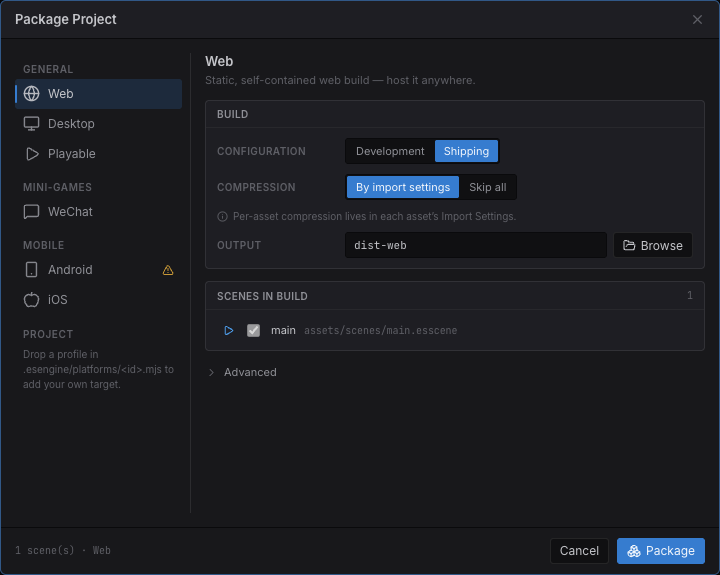
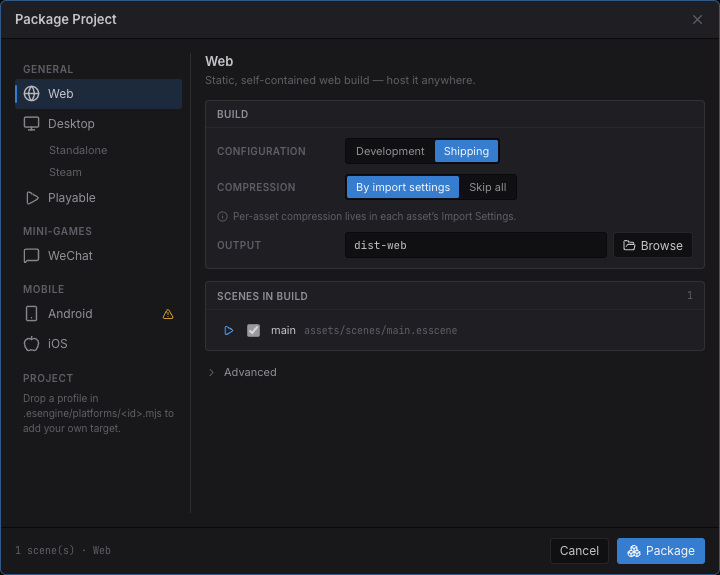
docs: the publishing guides describe the dialog that exists now
The Steam guide sent you to Project Settings for the channel, App ID, SDK path
and depot ids — all of which are now on the target's own page in Package Project,
reachable by picking Steam under Desktop in the target list. Reshot the build
dialog (its nav branches now) and added a shot of the Steam page, in both locales.

Three claims were stale rather than merely relocated, and each would have been
read as fact: the desktop target publishes a Linux template too (the guides named
only Windows and macOS, and the Steam guide still said Linux was unsupported),
Dawn runs on Vulkan there, and Auto-Cloud has a Linux root the checklist has been
printing all along.

Also renames the desktop Channel row in English — the group above it is called
Distribution, and so was the row.

Changed region(s): [[0.0306, 0.2365, 0.2444, 0.7687], [0.2139, 0.5322, 0.2444, 0.5617]]

diff --git a/desktop/src/i18n/messages/settings.ts b/desktop/src/i18n/messages/settings.ts
@@ -401,7 +401,7 @@ export const settingsMessages = defineMessages({
     'set.desktop.channel.standalone': { en: 'Standalone', zh: '独立发行' },
     'set.desktop.channel.steam': { en: 'Steam', zh: 'Steam' },
     'set.group.steam': { en: 'Steam', zh: 'Steam' },
-    'set.project.packaging.desktop.channel': { en: 'Distribution', zh: '发行渠道' },
+    'set.project.packaging.desktop.channel': { en: 'Channel', zh: '发行渠道' },
     'set.project.packaging.desktop.channel.desc': {
         en: 'Where this desktop build goes. Steam also writes the depot scripts and a STEAM.md '
             + 'listing the values only the partner backend can be told.',
